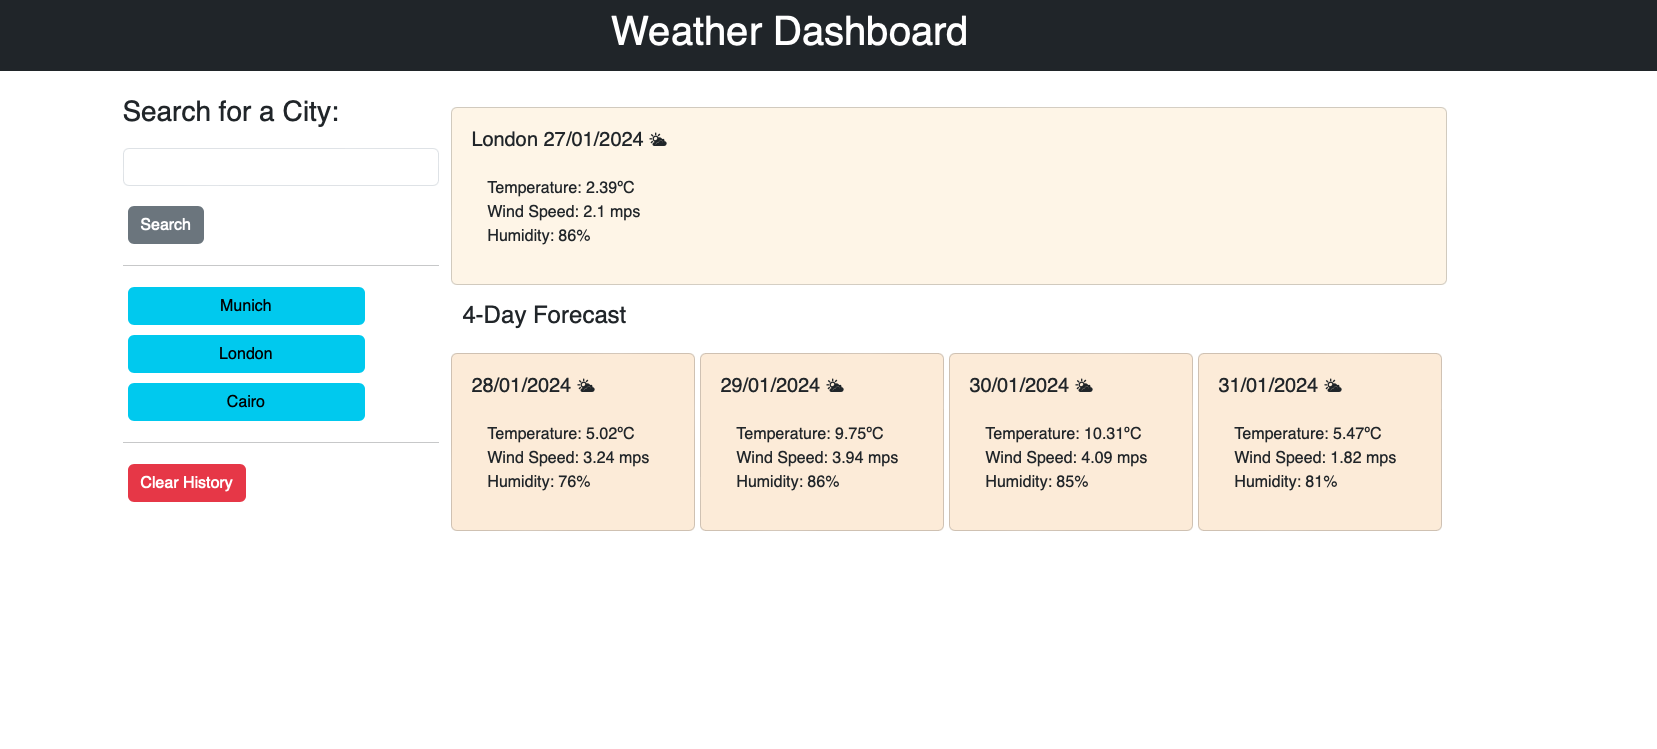
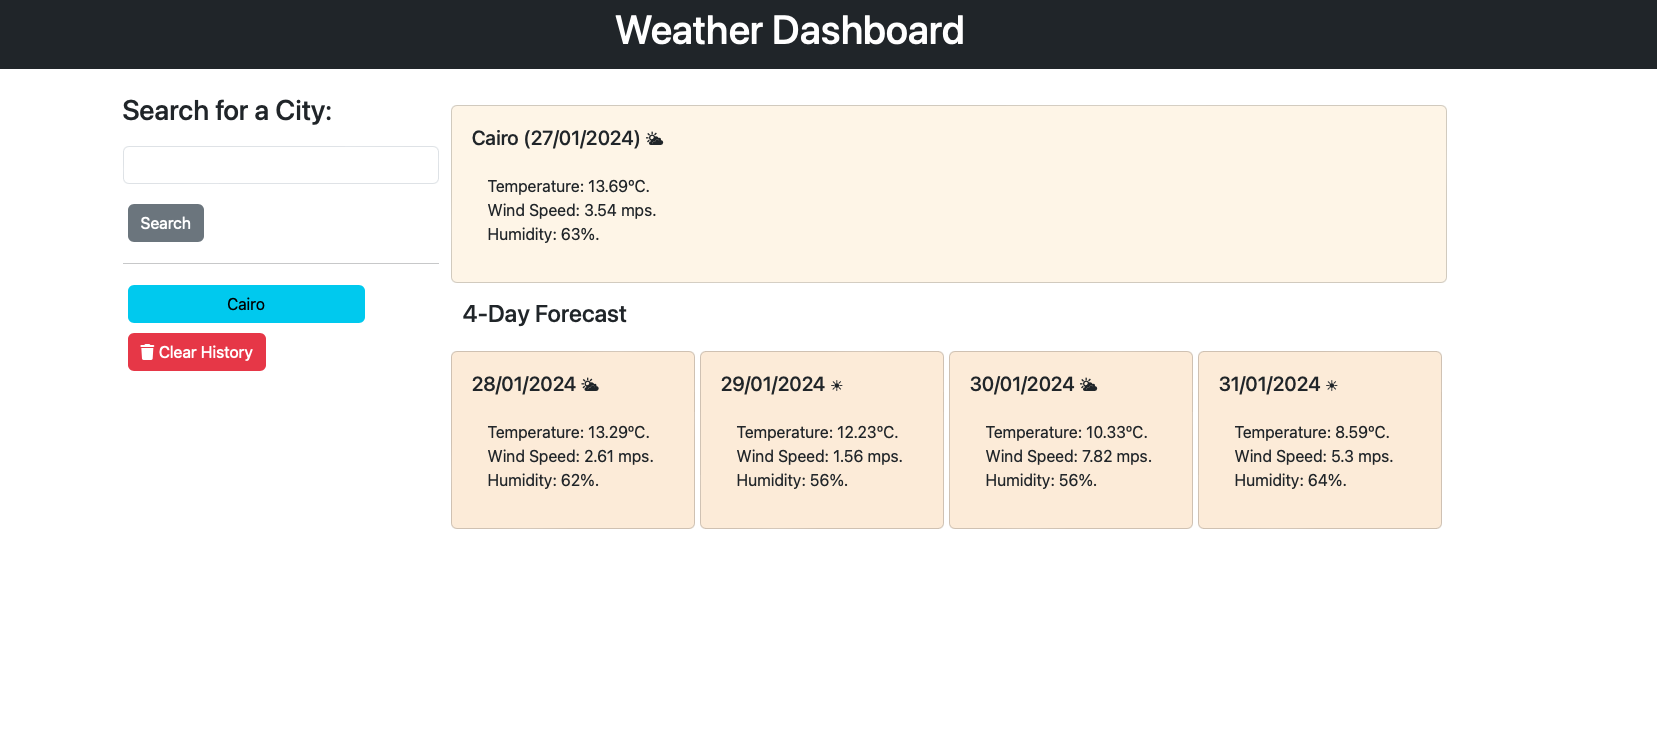
updated screenshot.

diff --git a/assets/script.js b/assets/script.js
@@ -77,7 +77,7 @@ function createCard(date, dateFormat, wDiv, cityName) {
     if (date === 'today') {
         weatherDiv.attr('class', 'card');
         today = dateFormat;
-        displayText = `${cityName.charAt(0).toUpperCase() + cityName.slice(1)} ${today}`;
+        displayText = `${cityName.charAt(0).toUpperCase() + cityName.slice(1)} (${today})`;
     };
     if (date === 'forecast') {
         forecastDay = dateFormat;
